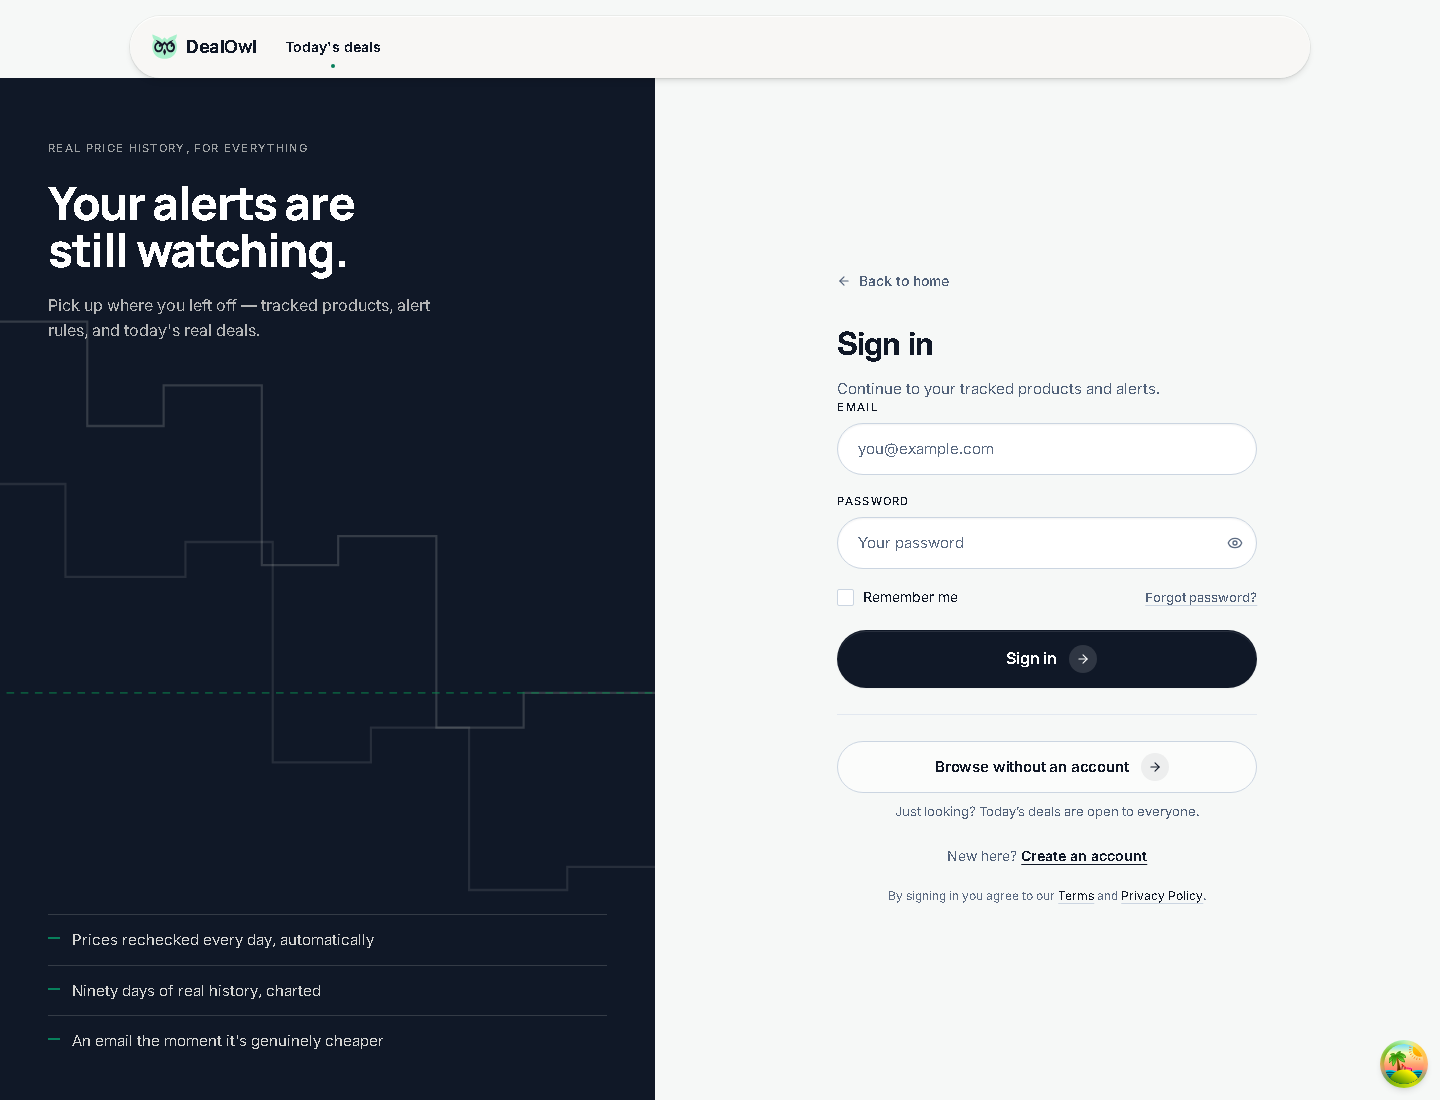
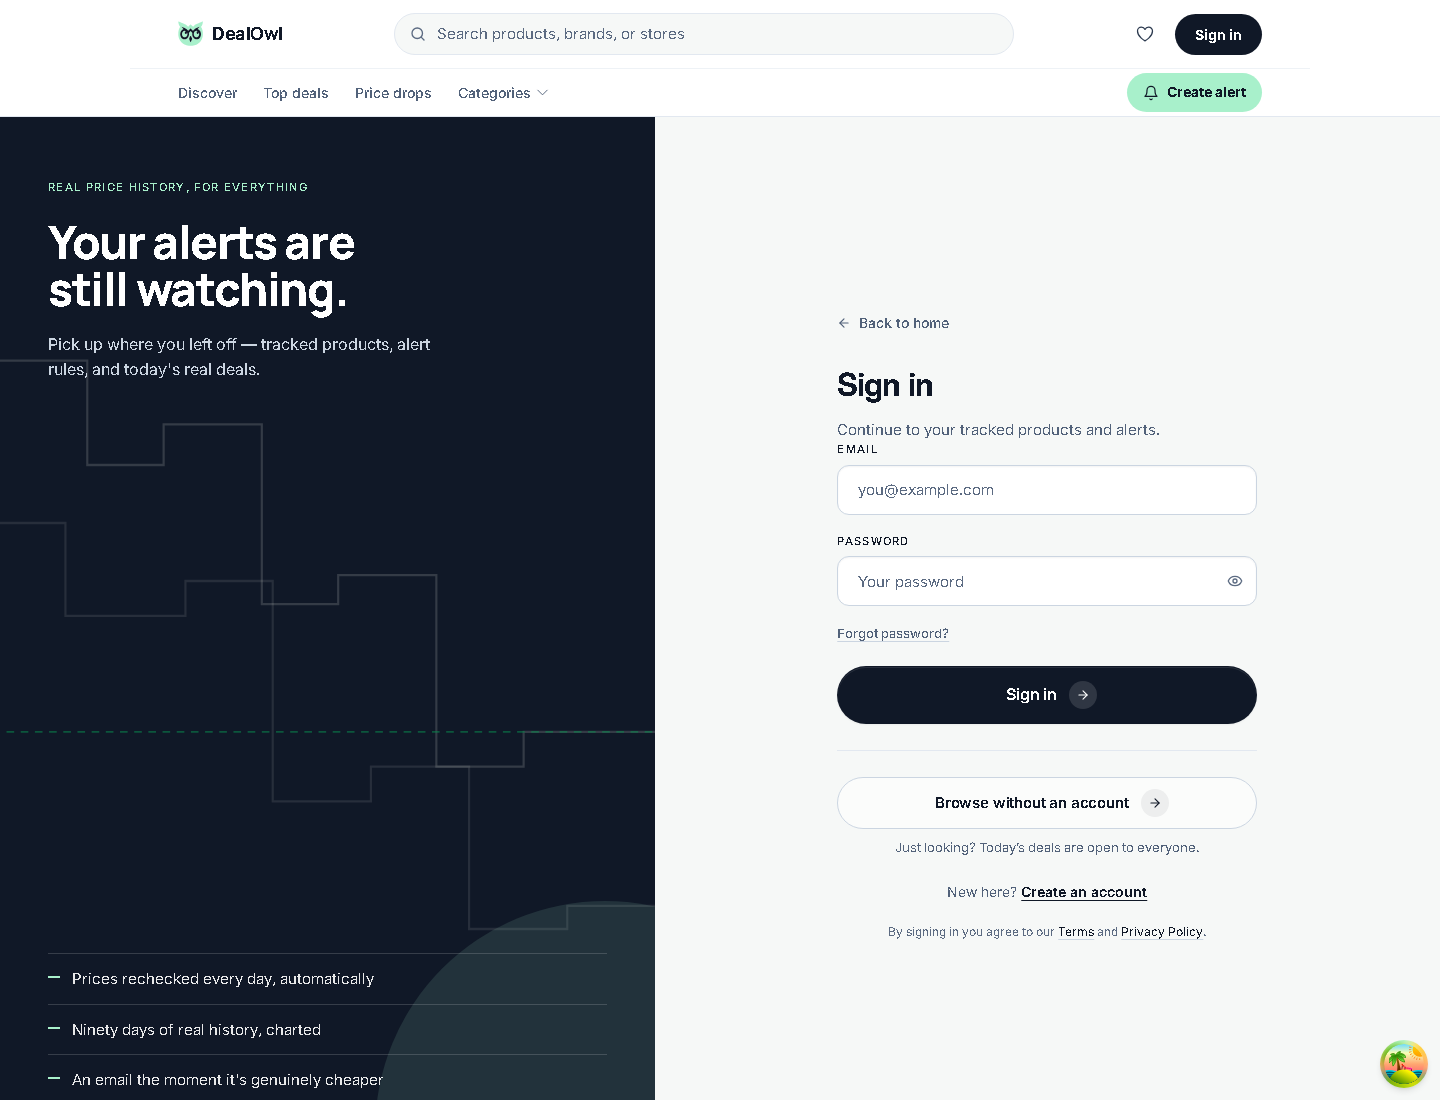
feat: update image assets and enhance styling for HomePage and LoginPage components

diff --git a/frontend/src/LoginPage.tsx b/frontend/src/LoginPage.tsx
@@ -4,7 +4,8 @@ import { ArrowLeft, Eye, EyeOff } from "lucide-react";
 import { oauthLogin } from "./api";
 import { useConfig, useLoginMutation, useRegisterAndLoginMutation } from "./hooks";
 import { Spinner } from "./Spinner";
-import { Arrow, Button, TopBar, Wordmark } from "./primitives";
+import { Arrow, Button, Wordmark } from "./primitives";
+import { SiteHeader } from "./ui/SiteHeader";
 import PasswordStrength from "./PasswordStrength";
 import { MIN_STRENGTH_SCORE, passwordScore } from "./passwordRules";
 
@@ -27,12 +28,10 @@ const formItem: Variants = {
 };
 
 export default function LoginPage({ onLogin, onGuest }: Props) {
-  const [menuOpen, setMenuOpen] = useState(false);
   const [mode, setMode] = useState<Mode>("login");
   const [email, setEmail] = useState("");
   const [password, setPassword] = useState("");
   const [showPassword, setShowPassword] = useState(false);
-  const [rememberMe, setRememberMe] = useState(false);
   const [errors, setErrors] = useState<{ email?: string; password?: string }>({});
   // An OAuth failure bounces back as "/?auth_error=<code>" — surface it from
   // the initial render rather than a setState-in-effect.
@@ -107,12 +106,7 @@ export default function LoginPage({ onLogin, onGuest }: Props) {
   return (
     <div className="rv-login rv-page min-h-screen">
       <style>{STYLES}</style>
-      <TopBar
-        links={[{ href: "#", label: "Today's deals" }]}
-        activeHref="#"
-        menuOpen={menuOpen}
-        onToggleMenu={() => setMenuOpen((v) => !v)}
-      />
+      <SiteHeader />
 
       <div className="rv-login-split">
         {/* ── LEFT — the argument, made with the product's own mark ── */}
@@ -224,24 +218,25 @@ export default function LoginPage({ onLogin, onGuest }: Props) {
                 </Field>
               </motion.div>
 
-              <motion.div className="rv-login-row" variants={formItem}>
-                <label
-                  className="rv-checkbox"
-                  onClick={(e) => { e.preventDefault(); setRememberMe((v) => !v); }}
-                >
-                  <span className={`rv-checkbox-box ${rememberMe ? "rv-checkbox-box-on" : ""}`}>
-                    {rememberMe && (
-                      <svg width="10" height="10" viewBox="0 0 12 12" fill="none">
-                        <path d="M2 6l3 3 5-5" stroke="currentColor" strokeWidth="2.4" strokeLinecap="round" strokeLinejoin="round" />
-                      </svg>
-                    )}
-                  </span>
-                  <span>Remember me</span>
-                </label>
-                {!isRegister && (
-                  <button type="button" className="rv-login-forgot">Forgot password?</button>
-                )}
-              </motion.div>
+              {/* "Remember me" used to live here. It was never read by
+                  handleSubmit and there is no server-side session-duration
+                  control behind it, so it has been removed rather than
+                  restyled — a checkbox that does nothing is a lie the
+                  redesign would otherwise have made prettier.
+
+                  "Forgot password?" had no handler and no route, and there
+                  is no password-reset endpoint in the backend at all. It is
+                  a support mailto until one exists. */}
+              {!isRegister && (
+                <motion.div className="rv-login-row" variants={formItem}>
+                  <a
+                    className="rv-login-forgot"
+                    href="mailto:support@dealowl.app?subject=Password%20reset%20request"
+                  >
+                    Forgot password?
+                  </a>
+                </motion.div>
+              )}
 
               <motion.div variants={formItem}>
                 <Button type="submit" variant="primary" size="lg" disabled={loading} className="rv-login-submit">
@@ -313,13 +308,13 @@ function PriceLineBackdrop() {
     >
       <path
         d="M-20 210 H80 V300 H150 V265 H240 V420 H310 V395 H400 V560 H480 V530 H620"
-        fill="none" stroke="rgba(244,243,239,.16)" strokeWidth="2"
+        fill="none" stroke="rgba(255,255,255,.14)" strokeWidth="2"
       />
       <path
         d="M-20 350 H60 V430 H170 V400 H250 V590 H340 V560 H430 V700 H520 V680 H620"
-        fill="none" stroke="rgba(244,243,239,.10)" strokeWidth="2"
+        fill="none" stroke="rgba(255,255,255,.09)" strokeWidth="2"
       />
-      <line x1="-20" y1="530" x2="620" y2="530" stroke="rgba(10,138,79,.55)" strokeWidth="1.5" strokeDasharray="7 6" />
+      <line x1="-20" y1="530" x2="620" y2="530" stroke="rgba(168,240,203,.55)" strokeWidth="1.5" strokeDasharray="7 6" />
     </svg>
   );
 }
@@ -411,30 +406,44 @@ const STYLES = `
 
   /* ── Brand panel ── */
   .rv-login-side {
-    position: relative; overflow: hidden; background: var(--ink); color: var(--paper);
+    position: relative; overflow: hidden;
+    background: var(--navy); color: var(--on-navy);
     padding: 56px 48px; display: flex; flex-direction: column; justify-content: space-between; gap: 48px;
+  }
+  /* A single soft mint bloom, the same shape language as the hero ellipse.
+     Restrained on purpose: the form is the job, this panel is the frame. */
+  .rv-login-side::after {
+    content: ""; position: absolute; z-index: 0;
+    width: 460px; height: 460px; right: -180px; bottom: -200px;
+    border-radius: 50%; background: var(--mint); opacity: .12;
   }
   .rv-login-backdrop { position: absolute; inset: 0; width: 100%; height: 100%; }
   .rv-login-side-body, .rv-login-side-list { position: relative; z-index: 1; }
-  .rv-login-side-eyebrow { color: rgba(244,243,239,.62); }
+  .rv-login-side-eyebrow { color: var(--mint); }
   .rv-login-side-title {
-    margin: 22px 0 0; font-size: clamp(30px, 3.6vw, 46px); color: var(--paper); max-width: 16ch;
+    margin: 22px 0 0; font-size: clamp(30px, 3.6vw, 46px);
+    color: var(--on-navy); max-width: 16ch; letter-spacing: -0.03em;
   }
   .rv-login-side-sub {
-    margin: 20px 0 0; font-size: 15.5px; line-height: 1.6; color: rgba(244,243,239,.72); max-width: 40ch;
+    margin: 20px 0 0; font-size: 15.5px; line-height: 1.6;
+    /* --ink-muted is 2.87:1 on navy. This token exists for this surface. */
+    color: var(--on-navy-muted); max-width: 40ch;
   }
   .rv-login-side-list { list-style: none; margin: 0; padding: 0; }
   .rv-login-side-list li {
-    padding: 14px 0 14px 24px; border-top: 1px solid rgba(244,243,239,.16);
-    font-size: 14.5px; color: rgba(244,243,239,.86); position: relative;
+    padding: 14px 0 14px 24px; border-top: 1px solid rgba(255,255,255,.16);
+    font-size: 14.5px; color: rgba(255,255,255,.9); position: relative;
   }
   .rv-login-side-list li::before {
-    content: ""; position: absolute; left: 0; top: 22px; width: 12px; height: 2px; background: var(--green);
+    content: ""; position: absolute; left: 0; top: 22px; width: 12px; height: 2px; background: var(--mint);
   }
 
   /* ── Form side ── */
   .rv-login-main { display: flex; align-items: center; justify-content: center; padding: 48px 24px 72px; }
   .rv-login-main-inner { width: 100%; max-width: 420px; }
+  /* The spec asks for 48-52px inputs; the shared .rv-input is sized for
+     dense app surfaces, so the form column raises it locally. */
+  .rv-login .rv-input { height: 50px; border-radius: 12px; }
   .rv-login-back {
     display: inline-flex; align-items: center; gap: 8px; font-size: 13.5px; font-weight: 500;
     color: var(--ink-muted); text-decoration: none; margin-bottom: 28px;
@@ -444,7 +453,7 @@ const STYLES = `
   .rv-login-mobile-mark { display: none; margin-bottom: 26px; }
 
   .rv-login-title { margin: 0; font-size: 32px; font-weight: 700; letter-spacing: -0.03em; }
-  .rv-login-sub { margin: 10px 0 0; font-size: 14.5px; color: var(--ink-muted); }
+  .rv-login-sub { margin: 10px 0 24px; font-size: 14.5px; color: var(--ink-muted); }
 
   .rv-login-social { display: flex; flex-direction: column; gap: 10px; margin-top: 28px; }
   .rv-social-btn {

diff --git a/frontend/src/ui/SiteHeader.tsx b/frontend/src/ui/SiteHeader.tsx
@@ -307,19 +307,29 @@ export const SITE_HEADER_STYLES = `
 
   /* ---- Mobile: identity + actions on one row, search beneath, nav scrolls */
   @media (max-width: 860px) {
-    .rv-hdr-row { gap: 12px; flex-wrap: wrap; padding: 0 16px; }
-    .rv-hdr-row-1 { height: auto; padding-top: 10px; padding-bottom: 10px; }
+    .rv-hdr-row-1 {
+      height: auto; gap: 12px; padding: 10px 16px;
+      flex-wrap: wrap;
+    }
     .rv-hdr-search { order: 3; flex-basis: 100%; max-width: none; margin: 0; }
     .rv-hdr-end { margin-left: auto; }
-    .rv-hdr-row-2 {
-      height: 46px; gap: 18px;
+
+    /* Row 2 must NOT wrap. It wrapped at first, which put the mint button
+       on top of the nav links instead of beside them. The row stays a
+       single line; the NAV scrolls inside its own box and the button keeps
+       its place at the end. */
+    .rv-hdr-row-2 { height: 46px; gap: 12px; flex-wrap: nowrap; padding: 0 16px; }
+    .rv-hdr-nav {
+      gap: 18px;
       overflow-x: auto; overflow-y: hidden;
       -webkit-overflow-scrolling: touch;
       scrollbar-width: none;
+      /* Room for the last pill's active underline to breathe past the edge. */
+      padding-right: 4px;
     }
-    .rv-hdr-row-2::-webkit-scrollbar { display: none; }
-    .rv-hdr-navlink { height: 45px; }
-    .rv-hdr-alert { padding: 8px 12px; }
+    .rv-hdr-nav::-webkit-scrollbar { display: none; }
+    .rv-hdr-navlink { height: 45px; flex: none; }
+    .rv-hdr-alert { padding: 8px 12px; font-size: 13px; }
   }
 
   @media (prefers-reduced-motion: reduce) {

diff --git a/frontend/src/HomePage.tsx b/frontend/src/HomePage.tsx
@@ -503,8 +503,11 @@ const STYLES = `
   /* ProductImage paints its own pale plate and inset ring so product photos
      sit on something in a grid. Over the hero's mint ellipse that plate is a
      white rectangle covering the artwork, so it is stripped here. */
-  .rv-hero2-shot .wicimg { background: transparent; box-shadow: none; }
-  .rv-hero2-shot img { object-fit: contain; }
+  .rv-hero2-shot .wicimg { background: transparent; box-shadow: none; border-radius: 14px; }
+  /* Real product photos are rectangular; the mockup uses a cut-out PNG.
+     Rounding keeps a photograph from reading as a raw box dropped on the
+     ellipse. A transparent product PNG still sits on the mint cleanly. */
+  .rv-hero2-shot img { object-fit: contain; border-radius: 14px; }
   .rv-hero2-tag {
     position: absolute; top: 4px; right: 0;
     border-radius: var(--r-pill);

diff --git a/backend/scripts/clear_demo_images.py b/backend/scripts/clear_demo_images.py
@@ -1,0 +1,59 @@
+"""Clear the topically-random demo photos from already-seeded products.
+
+Seeded demo rows used to carry `picsum.photos/seed/<slug>` image URLs, which
+return a real but unrelated photo per product — a street cat on a cookware
+card. `seed_products.py` no longer emits them, but rows seeded BEFORE that
+change still hold the URLs, so this clears them in place.
+
+Nulling image_url makes the frontend fall back to its category-aware
+placeholder (frontend/src/images.ts), which says "kitchen" honestly instead
+of showing a photograph of the wrong thing.
+
+Scope is deliberately narrow: only rows whose image_url points at the two
+known placeholder hosts. Real tracked products carry their own extracted
+image_url and are never touched.
+
+    python -m scripts.clear_demo_images            # report only
+    python -m scripts.clear_demo_images --apply    # actually clear
+"""
+from __future__ import annotations
+
+import sys
+
+from sqlalchemy import select, update
+
+from app.db import SessionLocal
+from app.models import Product
+
+HOSTS = ("picsum.photos", "loremflickr.com")
+
+
+def run(apply: bool) -> None:
+    with SessionLocal() as db:
+        stmt = select(Product.id, Product.title, Product.image_url).where(
+            Product.image_url.is_not(None)
+        )
+        rows = [r for r in db.execute(stmt).all() if any(h in (r.image_url or "") for h in HOSTS)]
+
+        if not rows:
+            print("No demo placeholder images found. Nothing to do.")
+            return
+
+        print(f"{len(rows)} product(s) carry a demo placeholder photo:")
+        for r in rows[:10]:
+            print(f"  {r.title or '(untitled)'} -> {r.image_url}")
+        if len(rows) > 10:
+            print(f"  ... and {len(rows) - 10} more")
+
+        if not apply:
+            print("\nDry run. Re-run with --apply to clear them.")
+            return
+
+        ids = [r.id for r in rows]
+        db.execute(update(Product).where(Product.id.in_(ids)).values(image_url=None))
+        db.commit()
+        print(f"\nCleared image_url on {len(ids)} product(s).")
+
+
+if __name__ == "__main__":
+    run("--apply" in sys.argv)
